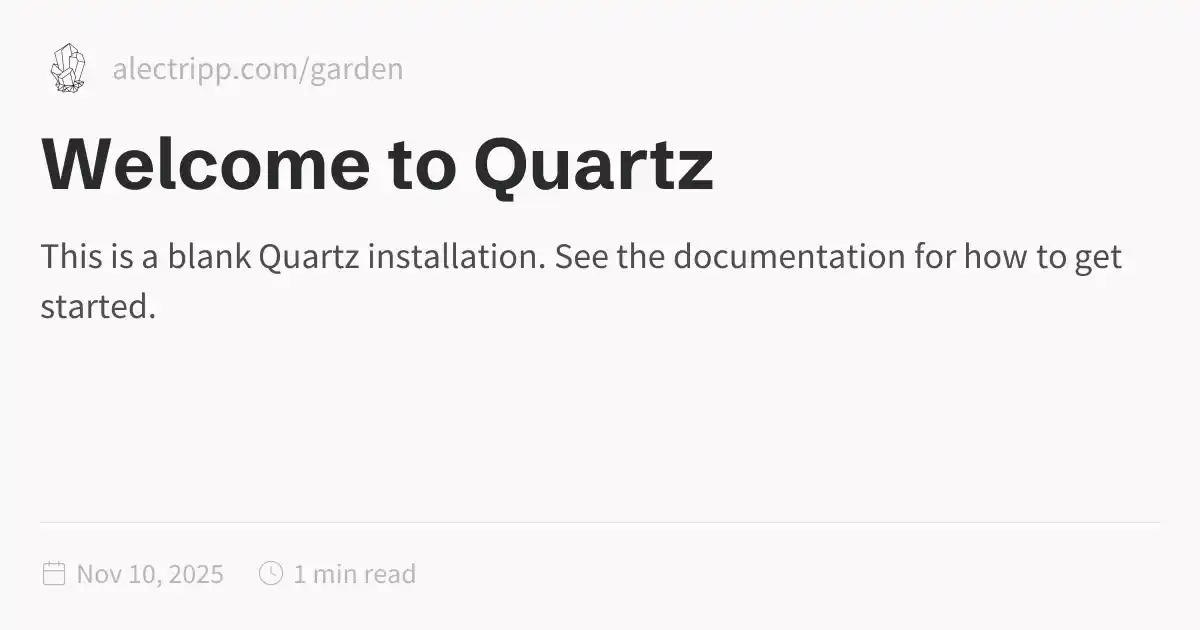
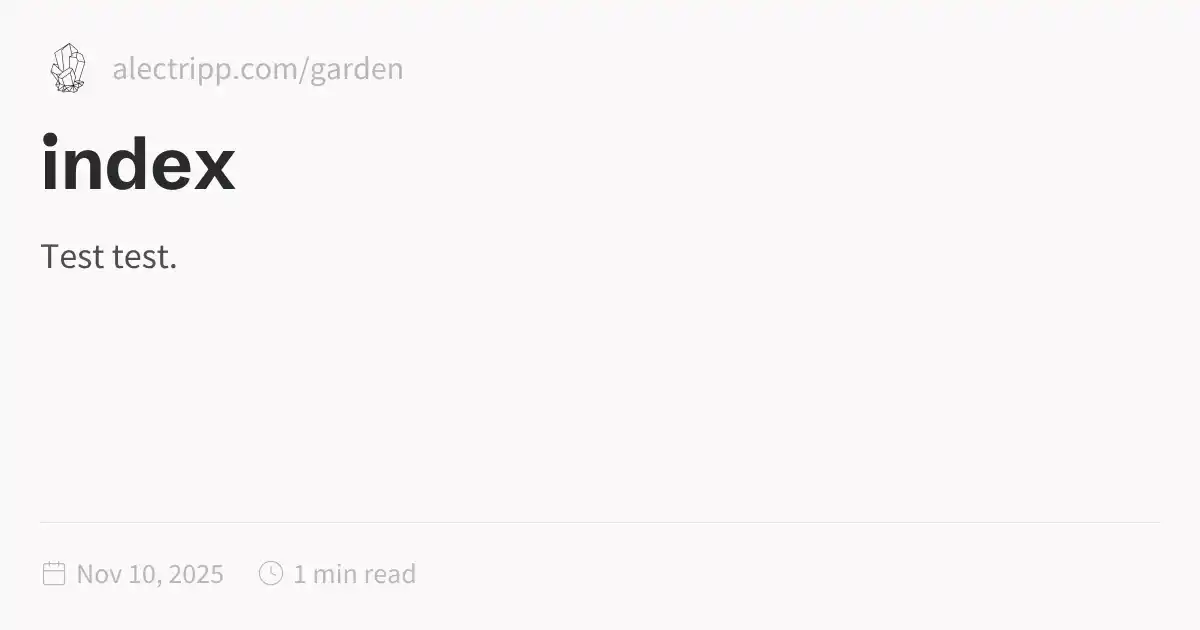
Update digital garden

Changed region(s): [[0.0308, 0.2111, 0.6167, 0.3317], [0.0308, 0.3921, 0.9558, 0.4524], [0.0308, 0.4524, 0.1233, 0.5127]]

diff --git a/garden/index.html b/garden/index.html
@@ -1,5 +1,5 @@
 <!DOCTYPE html>
-<html lang="en" dir="ltr"><head><title>Welcome to Quartz</title><meta charset="utf-8"/><link rel="preconnect" href="https://fonts.googleapis.com"/><link rel="preconnect" href="https://fonts.gstatic.com"/><link rel="stylesheet" href="https://fonts.googleapis.com/css2?family=Schibsted Grotesk:wght@400;700&amp;family=Source Sans Pro:ital,wght@0,400;0,600;1,400;1,600&amp;family=IBM Plex Mono:wght@400;600&amp;display=swap"/><link rel="preconnect" href="https://cdnjs.cloudflare.com" crossorigin="anonymous"/><meta name="viewport" content="width=device-width, initial-scale=1.0"/><meta name="og:site_name" content="Quartz 4"/><meta property="og:title" content="Welcome to Quartz"/><meta property="og:type" content="website"/><meta name="twitter:card" content="summary_large_image"/><meta name="twitter:title" content="Welcome to Quartz"/><meta name="twitter:description" content="This is a blank Quartz installation. See the documentation for how to get started."/><meta property="og:description" content="This is a blank Quartz installation. See the documentation for how to get started."/><meta property="og:image:alt" content="This is a blank Quartz installation. See the documentation for how to get started."/><meta property="twitter:domain" content="alectripp.com/garden"/><meta property="og:url" content="https://alectripp.com/garden/index"/><meta property="twitter:url" content="https://alectripp.com/garden/index"/><link rel="icon" href="./static/icon.png"/><meta name="description" content="This is a blank Quartz installation. See the documentation for how to get started."/><meta name="generator" content="Quartz"/><link href="./index.css" rel="stylesheet" type="text/css" spa-preserve/><style>.expand-button {
+<html lang="en" dir="ltr"><head><title>index</title><meta charset="utf-8"/><link rel="preconnect" href="https://fonts.googleapis.com"/><link rel="preconnect" href="https://fonts.gstatic.com"/><link rel="stylesheet" href="https://fonts.googleapis.com/css2?family=Schibsted Grotesk:wght@400;700&amp;family=Source Sans Pro:ital,wght@0,400;0,600;1,400;1,600&amp;family=IBM Plex Mono:wght@400;600&amp;display=swap"/><link rel="preconnect" href="https://cdnjs.cloudflare.com" crossorigin="anonymous"/><meta name="viewport" content="width=device-width, initial-scale=1.0"/><meta name="og:site_name" content="Quartz 4"/><meta property="og:title" content="index"/><meta property="og:type" content="website"/><meta name="twitter:card" content="summary_large_image"/><meta name="twitter:title" content="index"/><meta name="twitter:description" content="Test test."/><meta property="og:description" content="Test test."/><meta property="og:image:alt" content="Test test."/><meta property="twitter:domain" content="alectripp.com/garden"/><meta property="og:url" content="https://alectripp.com/garden/index"/><meta property="twitter:url" content="https://alectripp.com/garden/index"/><link rel="icon" href="./static/icon.png"/><meta name="description" content="Test test."/><meta name="generator" content="Quartz"/><link href="./index.css" rel="stylesheet" type="text/css" spa-preserve/><style>.expand-button {
   position: absolute;
   display: flex;
   float: right;
@@ -116,8 +116,7 @@ pre:hover > .expand-button {
   padding: 0 12px;
   font-size: 14px;
 }
[1 lines of base64/hex data omitted]
-See the <a href="https://quartz.jzhao.xyz" class="external">documentation<svg aria-hidden="true" class="external-icon" style="max-width:0.8em;max-height:0.8em;" viewBox="0 0 512 512"><path d="M320 0H288V64h32 82.7L201.4 265.4 178.7 288 224 333.3l22.6-22.6L448 109.3V192v32h64V192 32 0H480 320zM32 32H0V64 480v32H32 456h32V480 352 320H424v32 96H64V96h96 32V32H160 32z"></path></svg></a> for how to get started.</p></article><hr/><div class="page-footer"></div></div><div class="right sidebar"><div class="graph"><h3>Graph View</h3><div class="graph-outer"><div class="graph-container" data-cfg="{&quot;drag&quot;:true,&quot;zoom&quot;:true,&quot;depth&quot;:1,&quot;scale&quot;:1.1,&quot;repelForce&quot;:0.5,&quot;centerForce&quot;:0.3,&quot;linkDistance&quot;:30,&quot;fontSize&quot;:0.6,&quot;opacityScale&quot;:1,&quot;showTags&quot;:true,&quot;removeTags&quot;:[],&quot;focusOnHover&quot;:false,&quot;enableRadial&quot;:false}"></div><button class="global-graph-icon" aria-label="Global Graph"><svg version="1.1" xmlns="http://www.w3.org/2000/svg" xmlns:xlink="http://www.w3.org/1999/xlink" x="0px" y="0px" viewBox="0 0 55 55" fill="currentColor" xml:space="preserve"><path d="M49,0c-3.309,0-6,2.691-6,6c0,1.035,0.263,2.009,0.726,2.86l-9.829,9.829C32.542,17.634,30.846,17,29,17
[1 lines of base64/hex data omitted]
                 s-3.542,0.634-4.898,1.688l-7.669-7.669C16.785,10.424,17,9.74,17,9c0-2.206-1.794-4-4-4S9,6.794,9,9s1.794,4,4,4
                 c0.74,0,1.424-0.215,2.019-0.567l7.669,7.669C21.634,21.458,21,23.154,21,25s0.634,3.542,1.688,4.897L10.024,42.562
                 C8.958,41.595,7.549,41,6,41c-3.309,0-6,2.691-6,6s2.691,6,6,6s6-2.691,6-6c0-1.035-0.263-2.009-0.726-2.86l12.829-12.829
